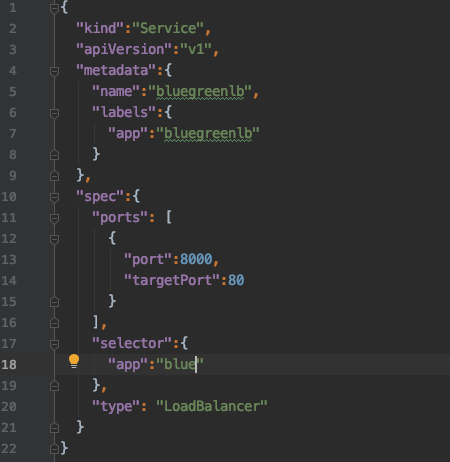
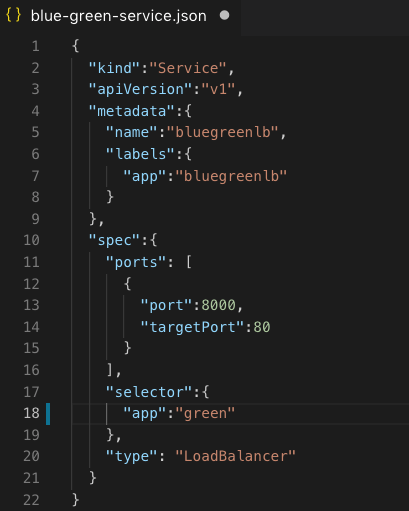
adds new images

diff --git a/images/Readme.md b/images/Readme.md
@@ -29,21 +29,30 @@
 ![img-4](4_connect_your_machine_to_eks.png) 
 
 ### Getting Nodes of EKS Cluster
-![img-5](5_get_nodes_of_your_eks_cluster.png) 
+![img-5](5_getting_nodes_eks.png) 
 
 ### Setting controller blue green
 ![img-6](6_setting_controllers_blue_green.png) 
 
-### Getting services deployed
-![img](getting_services_deployed.png)
+### Setting service of load balancer type
+![img-6](7_setting_service_load_balancer.png)  
 
-### Checking green deployment
-![img_8](8_checking_green_deployment.png)
+### Getting service deployed
+![img](getting_service_deployed.png)
 
-### Doing a change to blue-green-service.json for blue deploy
+### Checking blue deployment
+![img_8](8_checking_blue_deployment.png)
+
+### Doing a change to blue-green-service.json for green deploy
 ![img_9](9_doing_a_change_to_blue-green-service-json_file.png) 
 
 ### After do: kubectl apply -f blue-green-service.json
 ![img_10](10_after_do_apply_to_service.png)
 
+### Describing PODs for see how works the updates
 
+Server A
+![img_13](13_server_a.png)
+
+Server B
+![img_14](14_server_b.png)
